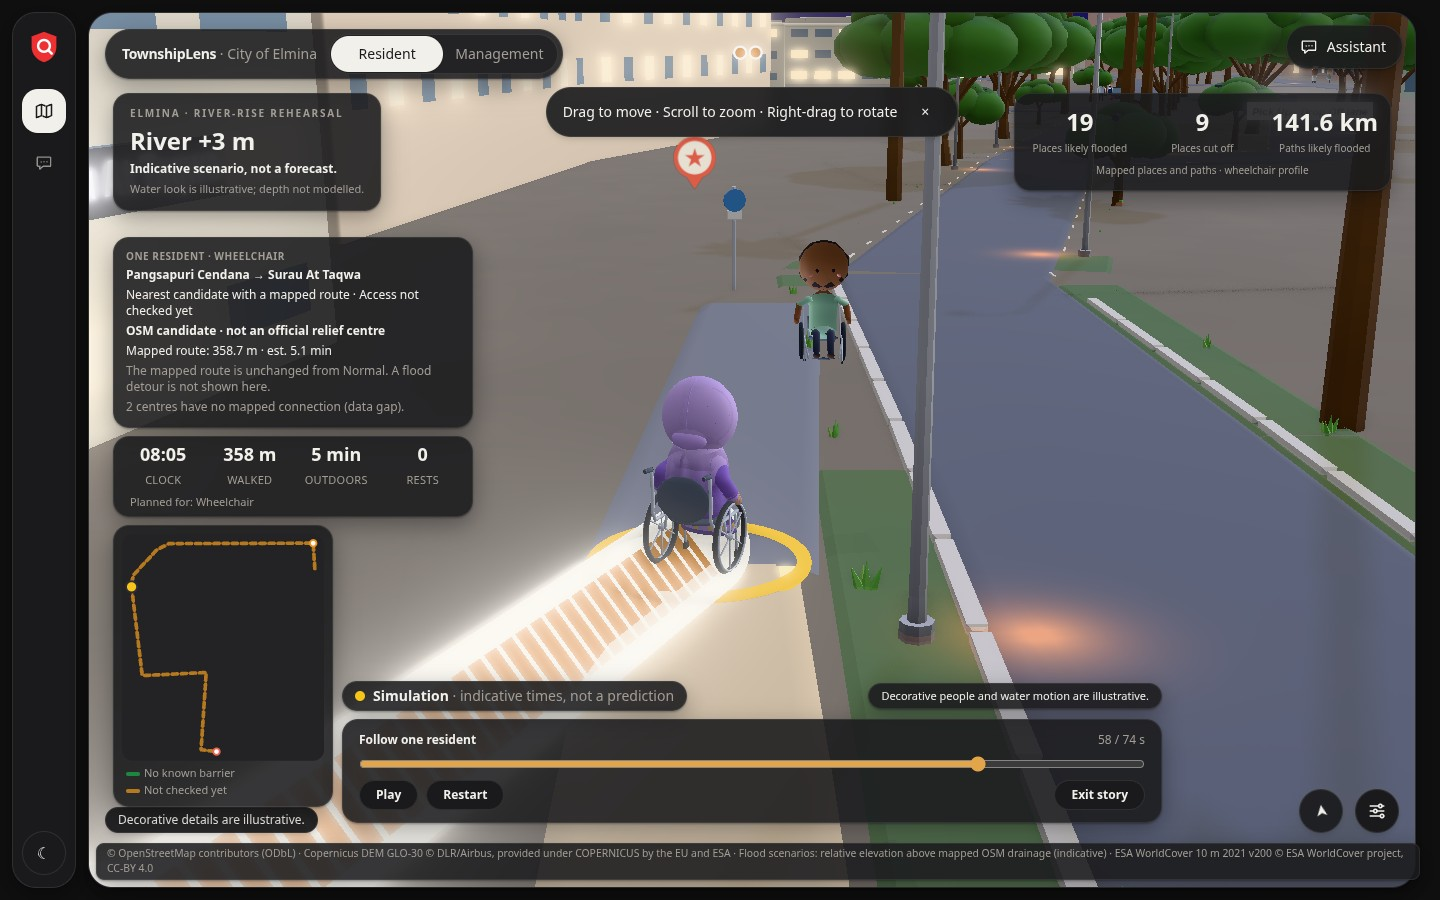
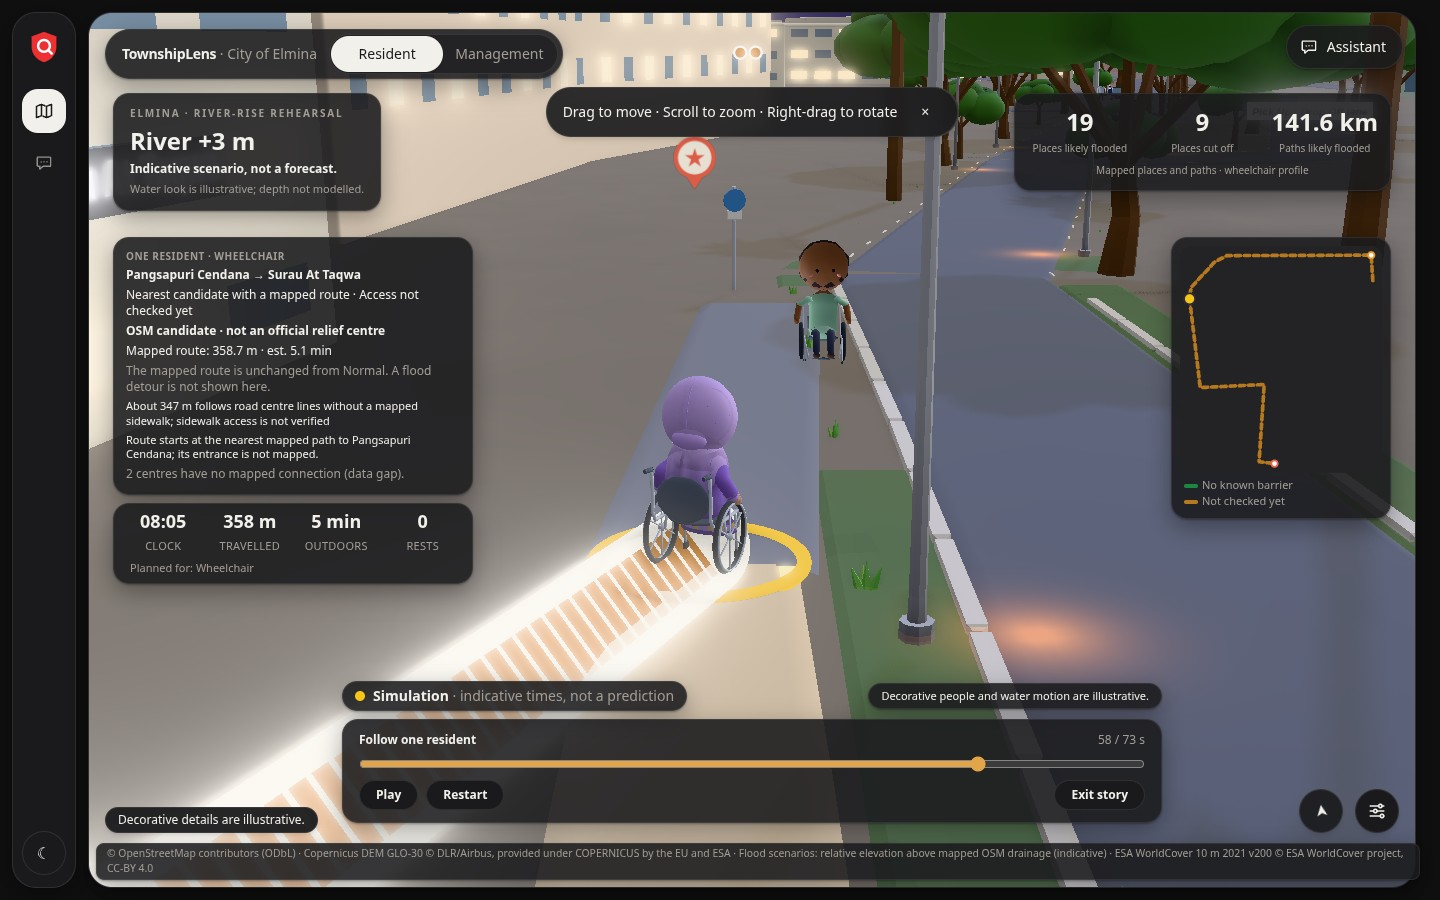
fix(web): keep flood route caveats and data gaps visible (T-032)

Changed region(s): [[0.0625, 0.4356, 0.3438, 0.9022], [0.75, 0.2178, 0.9688, 0.5911], [0.625, 0.0, 0.9375, 0.1244]]

diff --git a/apps/web/src/features/flood/floodStoryData.test.ts b/apps/web/src/features/flood/floodStoryData.test.ts
@@ -1,0 +1,113 @@
+import { afterEach, describe, expect, it, vi } from "vitest";
+import { loadFloodStory } from "./floodStoryData";
+
+function server({
+  searchOk = true,
+  routeId = "route",
+  journeyStatus = 200,
+  missingStage = false,
+} = {}) {
+  const stages = ["baseline", "stage_p1m", "stage_p2m", "stage_p3m"];
+  vi.stubGlobal(
+    "fetch",
+    vi.fn(async (url: string, init?: RequestInit) => {
+      const path = new URL(url, "http://township.test").pathname;
+      const response = (data: unknown, status = 200) =>
+        new Response(JSON.stringify(data), {
+          status,
+          headers: { "Content-Type": "application/json" },
+        });
+      if (path === "/api/scenarios")
+        return response(stages.map((id, stage_m) => ({ id, stage_m, kind: "river_stage" })));
+      if (path === "/api/scenarios/stage_p2m" && missingStage) return response({}, 404);
+      if (path.includes("/scenarios/"))
+        return response(
+          path.endsWith("/affected")
+            ? { flooded_places: [], cut_off_places: [], flooded_path_m: 0 }
+            : { type: "FeatureCollection", features: [] },
+        );
+      if (path === "/api/places")
+        return response({
+          ok: searchOk,
+          data: [{ id: "home", name: "Pangsapuri Cendana", type: "residential" }],
+        });
+      if (path === "/api/evacuation-centres")
+        return response([
+          {
+            centre: { id: "hall", name: "Hall", source: "osm_candidate" },
+            reachable: true,
+            distance_m: 358.7,
+            route_status: "partly_unverified",
+          },
+        ]);
+      if (path === "/api/journeys")
+        return response(
+          journeyStatus === 409
+            ? { route_status: "no_data", message: "No mapped connection (data gap)." }
+            : {
+                route_id: routeId,
+                profile: "wheelchair",
+                pace_m_per_s: 1,
+                polyline: [
+                  [101, 3],
+                  [101.001, 3],
+                ],
+                spans: [[0, 100, "UNKNOWN"]],
+                events: [],
+              },
+          journeyStatus,
+        );
+      if (path === "/api/routes") {
+        const body = JSON.parse(String(init?.body));
+        expect(body.profile).toBe("wheelchair");
+        return response({
+          status: "partly_unverified",
+          routes: [
+            {
+              id: "route",
+              profile: "wheelchair",
+              from_place: "home",
+              to_place: "__centre__hall",
+              scenario_id: body.scenario_id,
+            },
+          ],
+        });
+      }
+      throw new Error(`Unexpected test URL ${path}`);
+    }),
+  );
+}
+afterEach(() => vi.unstubAllGlobals());
+const load = () => loadFloodStory(new AbortController().signal);
+
+describe("river story API evidence binding", () => {
+  it("keeps the honest mapped candidate when journey and route identify the same trip", async () => {
+    server();
+    const story = await load();
+    expect(story.resident?.centre.centre.source).toBe("osm_candidate");
+    expect(story.residentGap).toBeNull();
+  });
+  it("does not use a place result whose tool reports failure", async () => {
+    server({ searchOk: false });
+    const story = await load();
+    expect(story.resident).toBeNull();
+    expect(story.residentGap).toMatch(/could not be checked/);
+  });
+  it("does not bind another route's metadata to the displayed hero", async () => {
+    server({ routeId: "different-route" });
+    const story = await load();
+    expect(story.resident).toBeNull();
+    expect(story.residentGap).toMatch(/changed while loading/);
+  });
+  it("keeps a missing connection as no data and leaves the river stages available", async () => {
+    server({ journeyStatus: 409 });
+    const story = await load();
+    expect(story.stages).toHaveLength(4);
+    expect(story.resident).toBeNull();
+    expect(story.residentGap).toBe("No mapped connection (data gap).");
+  });
+  it("fails a missing stage instead of replacing it with a normal/zero stage", async () => {
+    server({ missingStage: true });
+    await expect(load()).rejects.toThrow(/data is unavailable/);
+  });
+});

diff --git a/apps/web/src/features/flood/FloodStoryOverlay.tsx b/apps/web/src/features/flood/FloodStoryOverlay.tsx
@@ -44,6 +44,7 @@ export function FloodStoryOverlay() {
     trip && s.story?.stages[3] ? floodRouteEvidence(trip, s.story.stages[3].affected) : null;
   const route =
     trip?.route.routes.find((r) => r.id === trip.plan.route_id) ?? trip?.route.routes[0];
+  const routeLimits = trip?.route.warnings?.filter((w) => /sidewalk|entrance/i.test(w)) ?? [];
   return (
     <div
       data-testid="flood-story"
@@ -121,18 +122,32 @@ export function FloodStoryOverlay() {
             {routeEvidence?.kind === "detour" && (
               <p className="mt-1 font-semibold">Likely flooded (indicative) — route goes around</p>
             )}
+            {routeLimits.map((warning) => (
+              <p key={warning} className="mt-1 text-[11px] font-medium">
+                {warning}
+              </p>
+            ))}
             {journey.event?.kind === "unknown" && (
-              <p className="mt-1 font-semibold">{journey.event.body}</p>
+              <p className="mt-1 font-semibold">
+                {journey.event.title}: {journey.event.body}
+              </p>
             )}
             {trip.route.demo_evidence && <p className="mt-1">Demo value · not surveyed</p>}
             <p className="mt-1 text-fg-soft">
               {trip.missingCentres} centres have no mapped connection (data gap).
             </p>
           </section>
-          <JourneyHud state={journey} covered={s.timeline.journey.covered} profile="wheelchair" />
-          <div className="hidden sm:block">
-            <JourneyMiniMap plan={trip.plan} distanceM={journey.distance_m} />
-          </div>
+          <JourneyHud
+            state={journey}
+            covered={s.timeline.journey.covered}
+            profile="wheelchair"
+            distanceLabel="Travelled"
+          />
+        </div>
+      )}
+      {residentOn && trip && journey && (
+        <div className="absolute top-56 right-6 hidden sm:block">
+          <JourneyMiniMap plan={trip.plan} distanceM={journey.distance_m} />
         </div>
       )}
       {residentOn && !trip && (
@@ -183,7 +198,7 @@ export function FloodStoryOverlay() {
                     : "Watch the river rise"}
             </span>
             <span className="tabular-nums text-fg-soft">
-              {Math.floor(s.t)} / {Math.ceil(s.timeline?.total ?? 0)} s
+              {Math.round(s.t)} / {Math.round(s.timeline?.total ?? 0)} s
             </span>
           </div>
           <input

diff --git a/apps/web/src/features/flood/FloodStoryOverlay.dom.test.tsx b/apps/web/src/features/flood/FloodStoryOverlay.dom.test.tsx
@@ -30,6 +30,41 @@ const story = {
 afterEach(() => act(() => useFloodStory.getState().close()));
 
 describe("river playback UI", () => {
+  it("keeps the route's sidewalk and entrance caveats beside the resident", () => {
+    const warnings = ["About 347 m has no mapped sidewalk.", "The home entrance is not mapped."];
+    const residentStory = {
+      ...story,
+      resident: {
+        origin: { id: "home", name: "Home" },
+        centre: { centre: { name: "Candidate hall", source: "osm_candidate" } },
+        plan: {
+          route_id: "r",
+          profile: "wheelchair",
+          start_time: "08:00",
+          pace_m_per_s: 1,
+          polyline: [
+            [101, 3],
+            [101.001, 3],
+          ],
+          spans: [[0, 100, "UNKNOWN"]],
+          events: [],
+        },
+        route: {
+          status: "partly_unverified",
+          warnings,
+          routes: [{ id: "r", distance_m: 100, est_minutes: 2, segments: [] }],
+        },
+        missingCentres: 2,
+      },
+      residentGap: null,
+    } as unknown as FloodStory;
+    useFloodStory.getState().load(residentStory);
+    render(<FloodStoryOverlay />);
+    act(() => useFloodStory.getState().seek(RESIDENT_AT + 1));
+    for (const text of warnings) expect(screen.getByText(text)).toBeVisible();
+    expect(screen.getByText("OSM candidate · not an official relief centre")).toBeVisible();
+    assertHonest(document.body.textContent ?? "");
+  });
   it("uses each stage's actual counters even if they do not increase; native seek updates them", () => {
     useFloodStory.getState().load(story);
     render(<FloodStoryOverlay />);

diff --git a/apps/web/src/features/journey/JourneyHud.tsx b/apps/web/src/features/journey/JourneyHud.tsx
@@ -23,18 +23,21 @@ export function JourneyHud({
   state,
   covered,
   profile,
+  distanceLabel = "Walked",
 }: {
   state: JourneyState;
   covered: readonly CoveredSpan[];
   /** The persona the trip was planned for (the plan's own, never the selector's). */
   profile?: Profile;
+  /** The flood wheelchair story uses "Travelled"; existing callers retain their label. */
+  distanceLabel?: string;
 }) {
   const demoRoof = covered.some((c) => c.demo);
   return (
     <div data-testid="journey-hud" className="glass rounded-2xl px-2 py-1.5 text-fg">
       <div className="grid grid-cols-4 gap-1">
         <Cell id="hud-clock" value={state.clock} label="Clock" />
-        <Cell id="hud-walked" value={`${Math.round(state.distance_m)} m`} label="Walked" />
+        <Cell id="hud-walked" value={`${Math.round(state.distance_m)} m`} label={distanceLabel} />
         <Cell id="hud-outdoors" value={`${state.minutesOutdoors} min`} label="Outdoors" />
         <Cell id="hud-rests" value={String(state.restsTaken)} label="Rests" />
       </div>

diff --git a/apps/web/src/features/flood/floodStoryData.ts b/apps/web/src/features/flood/floodStoryData.ts
@@ -32,7 +32,15 @@ async function json<T>(path: string, signal: AbortSignal, body?: unknown): Promi
         }
       : {}),
   });
-  if (!response.ok) throw new Error(`Township data unavailable (${response.status}).`);
+  if (!response.ok) {
+    if (path === "/journeys" && response.status === 409) {
+      const gap = (await response.json().catch(() => null)) as Schemas["NoJourney"] | null;
+      if (gap?.route_status === "no_data") throw new Error("No mapped connection (data gap).");
+      if (gap?.route_status === "blocked")
+        throw new Error("The mapped route has a known barrier for a wheelchair user.");
+    }
+    throw new Error("Township data is unavailable. Please try again.");
+  }
   return response.json() as Promise<T>;
 }
 

diff --git a/docs/superpowers/screenshots/t032/README.md b/docs/superpowers/screenshots/t032/README.md
@@ -78,3 +78,17 @@ questions and production build. Final CI results are recorded on PR #40.
 Python is unchanged: 3,191 passed / 37 skipped. Installed Chromium E2E: 39 passed, two failures
 also reproduced on unchanged DaVinci 449171b9: external-font `ERR_TUNNEL_CONNECTION_FAILED`
 and the phone composer-height assertion (111.1875 px versus >150 px). No unrelated UI fix was made.
+
+## Route-limit review
+
+The current captures show the API's two specific route limits: about 347 m follows road centre
+lines without a mapped sidewalk, and the home entrance is not mapped. The mini-map is separate
+from the warning card. The wheelchair distance label is Travelled; the shared HUD's other
+callers keep their existing label. Five API contract probes also cover a failed place lookup,
+mismatched journey/route ids, a missing connection and a missing river stage, beside an honest
+candidate control. Ten built-app browser probes pass for the four API counters, route labels,
+pause, repeatable camera seeks, honest failure states and Exit.
+
+All twenty cinematic captures and both theme strips were refreshed after this review. The
+cinematic checkpoint at 86006f95 passed all seven GitHub CI gates (run 39803286030). The latest
+checks and the pending shared-traffic requirement are reported on PR #40.

diff --git a/apps/web/README.md b/apps/web/README.md
@@ -937,3 +937,9 @@ model, drains and flash-flood limits and official guidance links.
 Acceptance: `?acceptance=1` exposes `window.__flood` (`start`, `seek`, `play`, `pause`, `close`,
 `state`, `camera`), following the existing journey hook. It makes no LLM calls. See
 [the T-032 capture index](../../docs/superpowers/screenshots/t032/README.md).
+
+The resident card retains the API's unmapped-entrance and no-sidewalk warnings. `JourneyHud`
+accepts one optional distance label: flood passes `Travelled` for the wheelchair user; other
+callers retain their default. The mini-map sits separately on the right to keep route limits
+readable. A journey API `no_data` response stays "No mapped connection (data gap)"; a known
+barrier stays a barrier. Technical HTTP codes are not used as resident-facing explanations.
